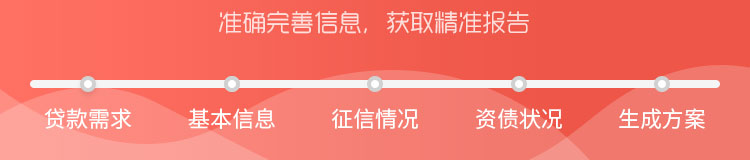
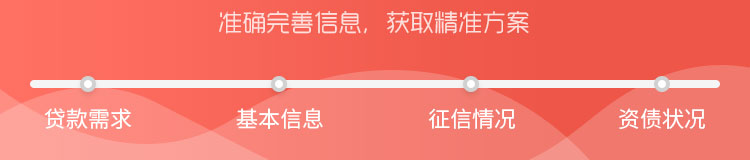
topbar 修改

diff --git a/components/Topbar.js b/components/Topbar.js
@@ -57,13 +57,13 @@ class Topbar extends React.Component {
                 display:none;
               }
               .p1{
-                left:22%;
+                left:29%;
               }
               .p2{
-                left:42%;
+                left:54%;
               }
               .p3{
-                left:62%;
+                left:80%;
               }
               .num{
                 color:#ee5648;
